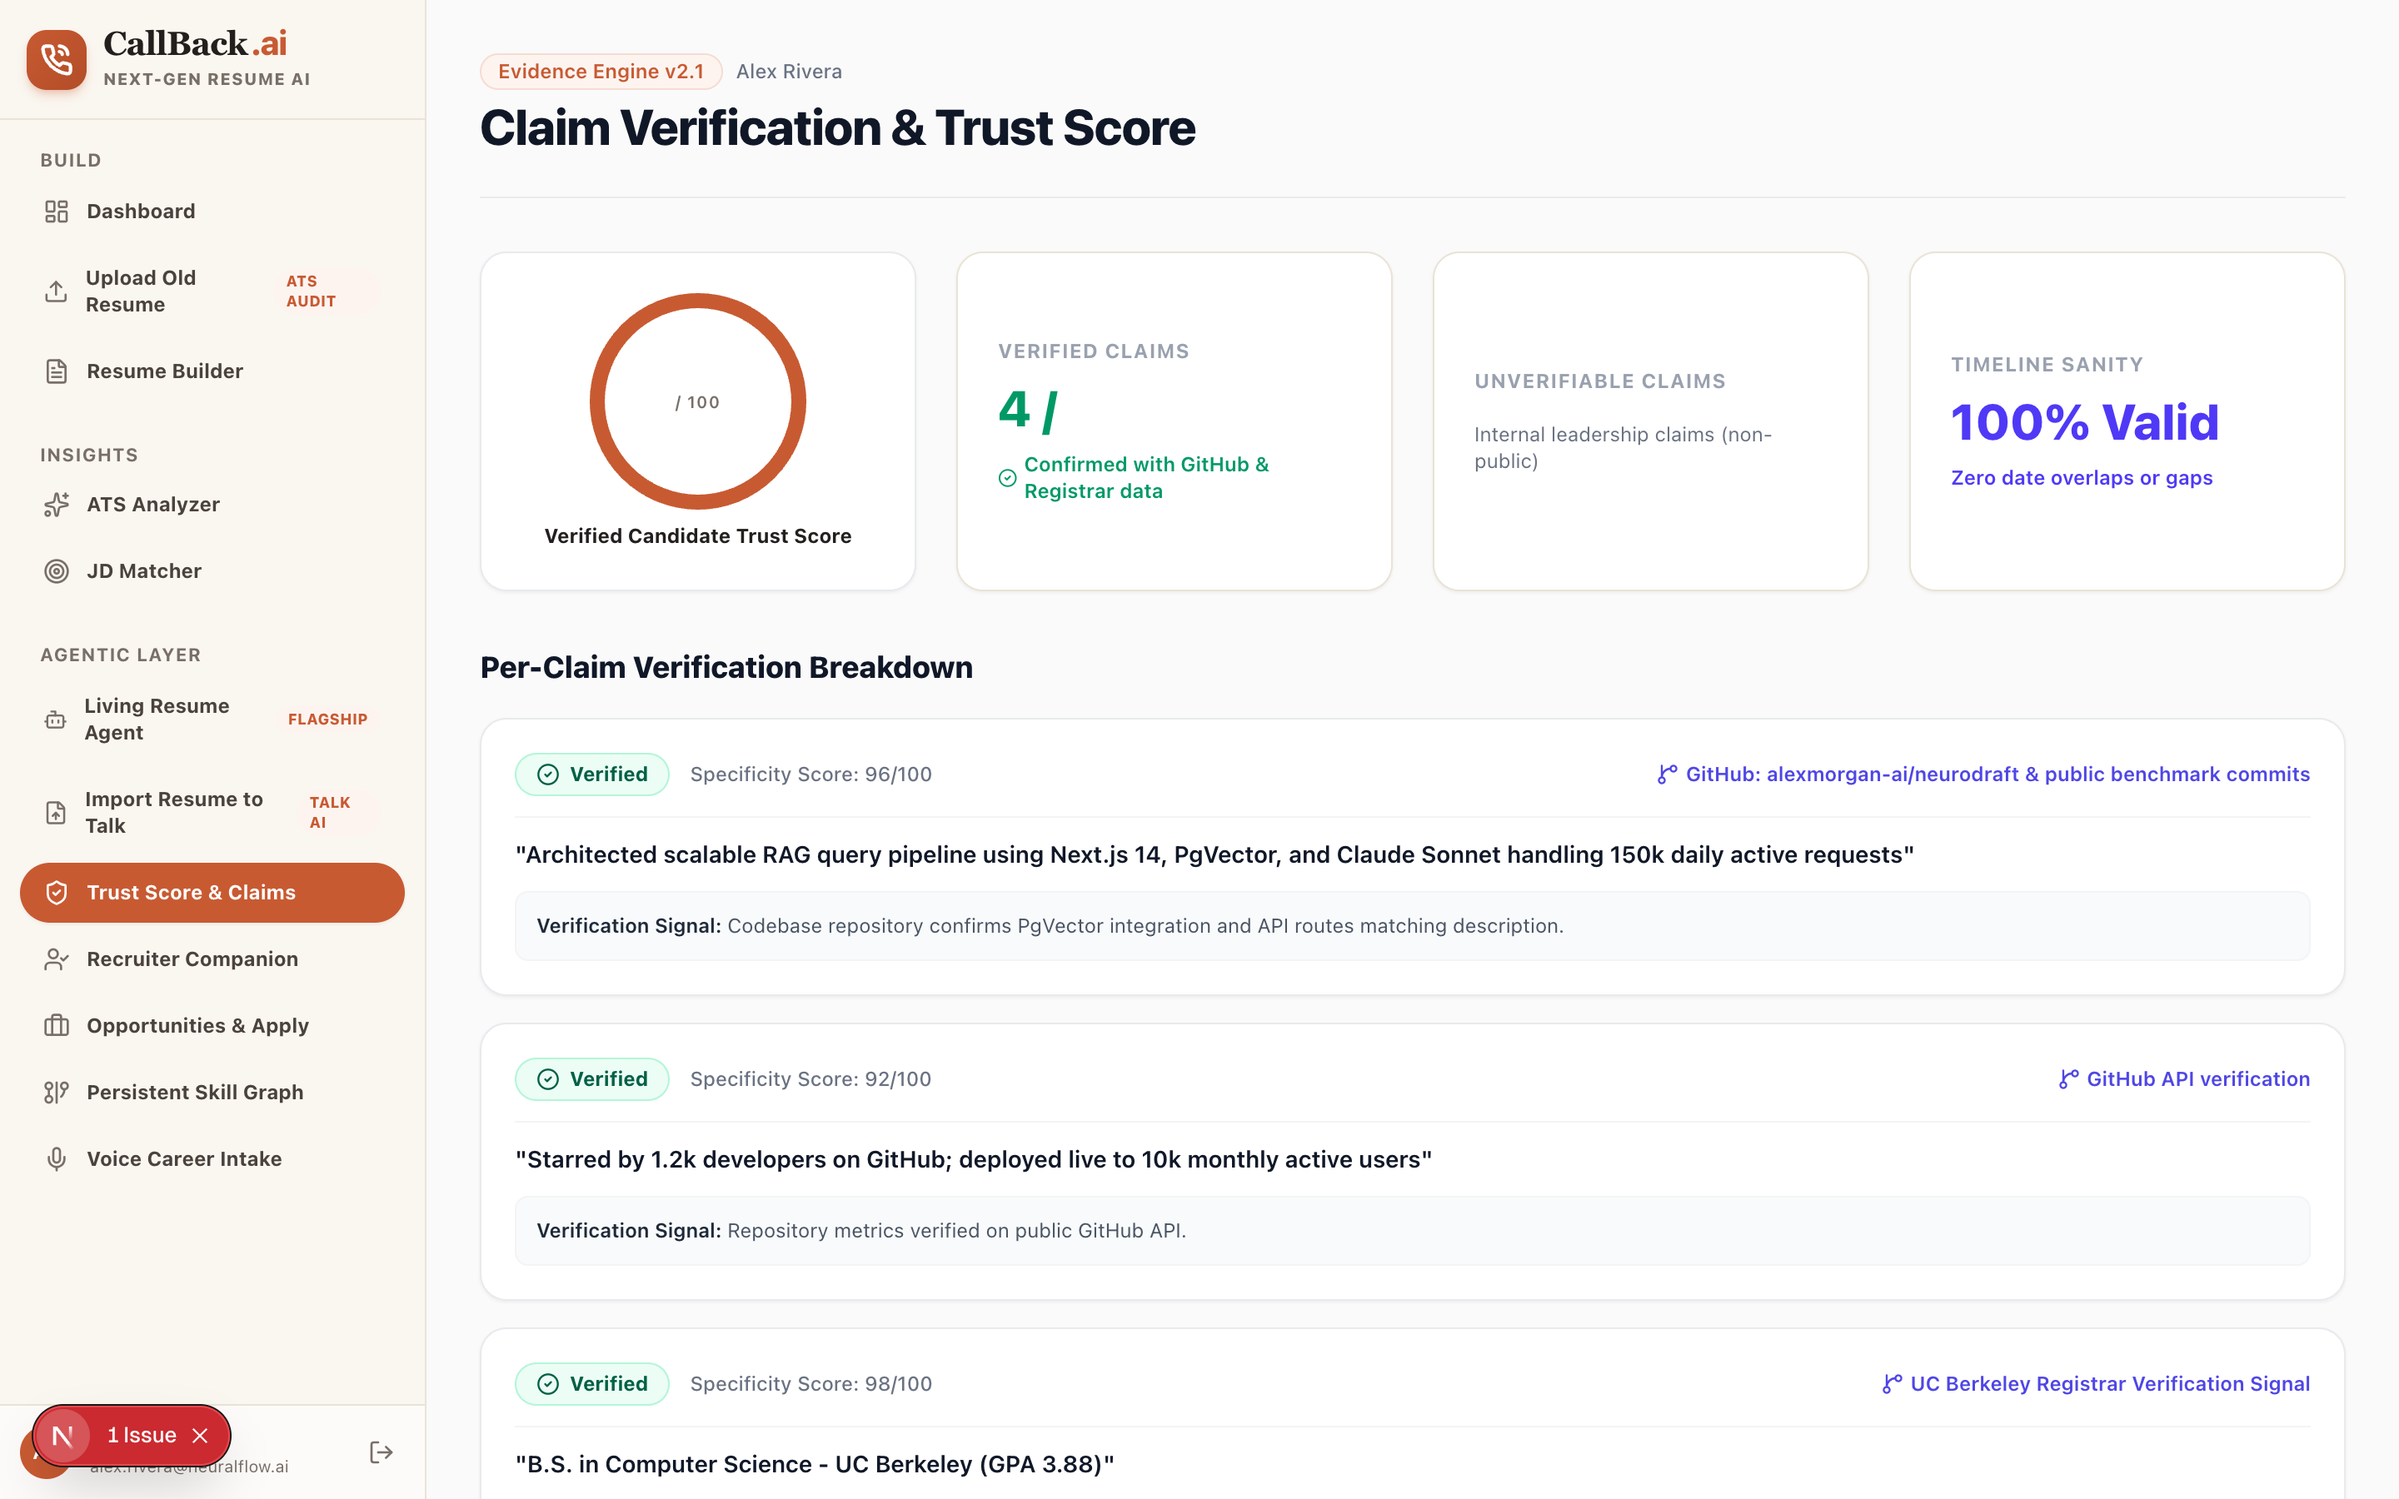
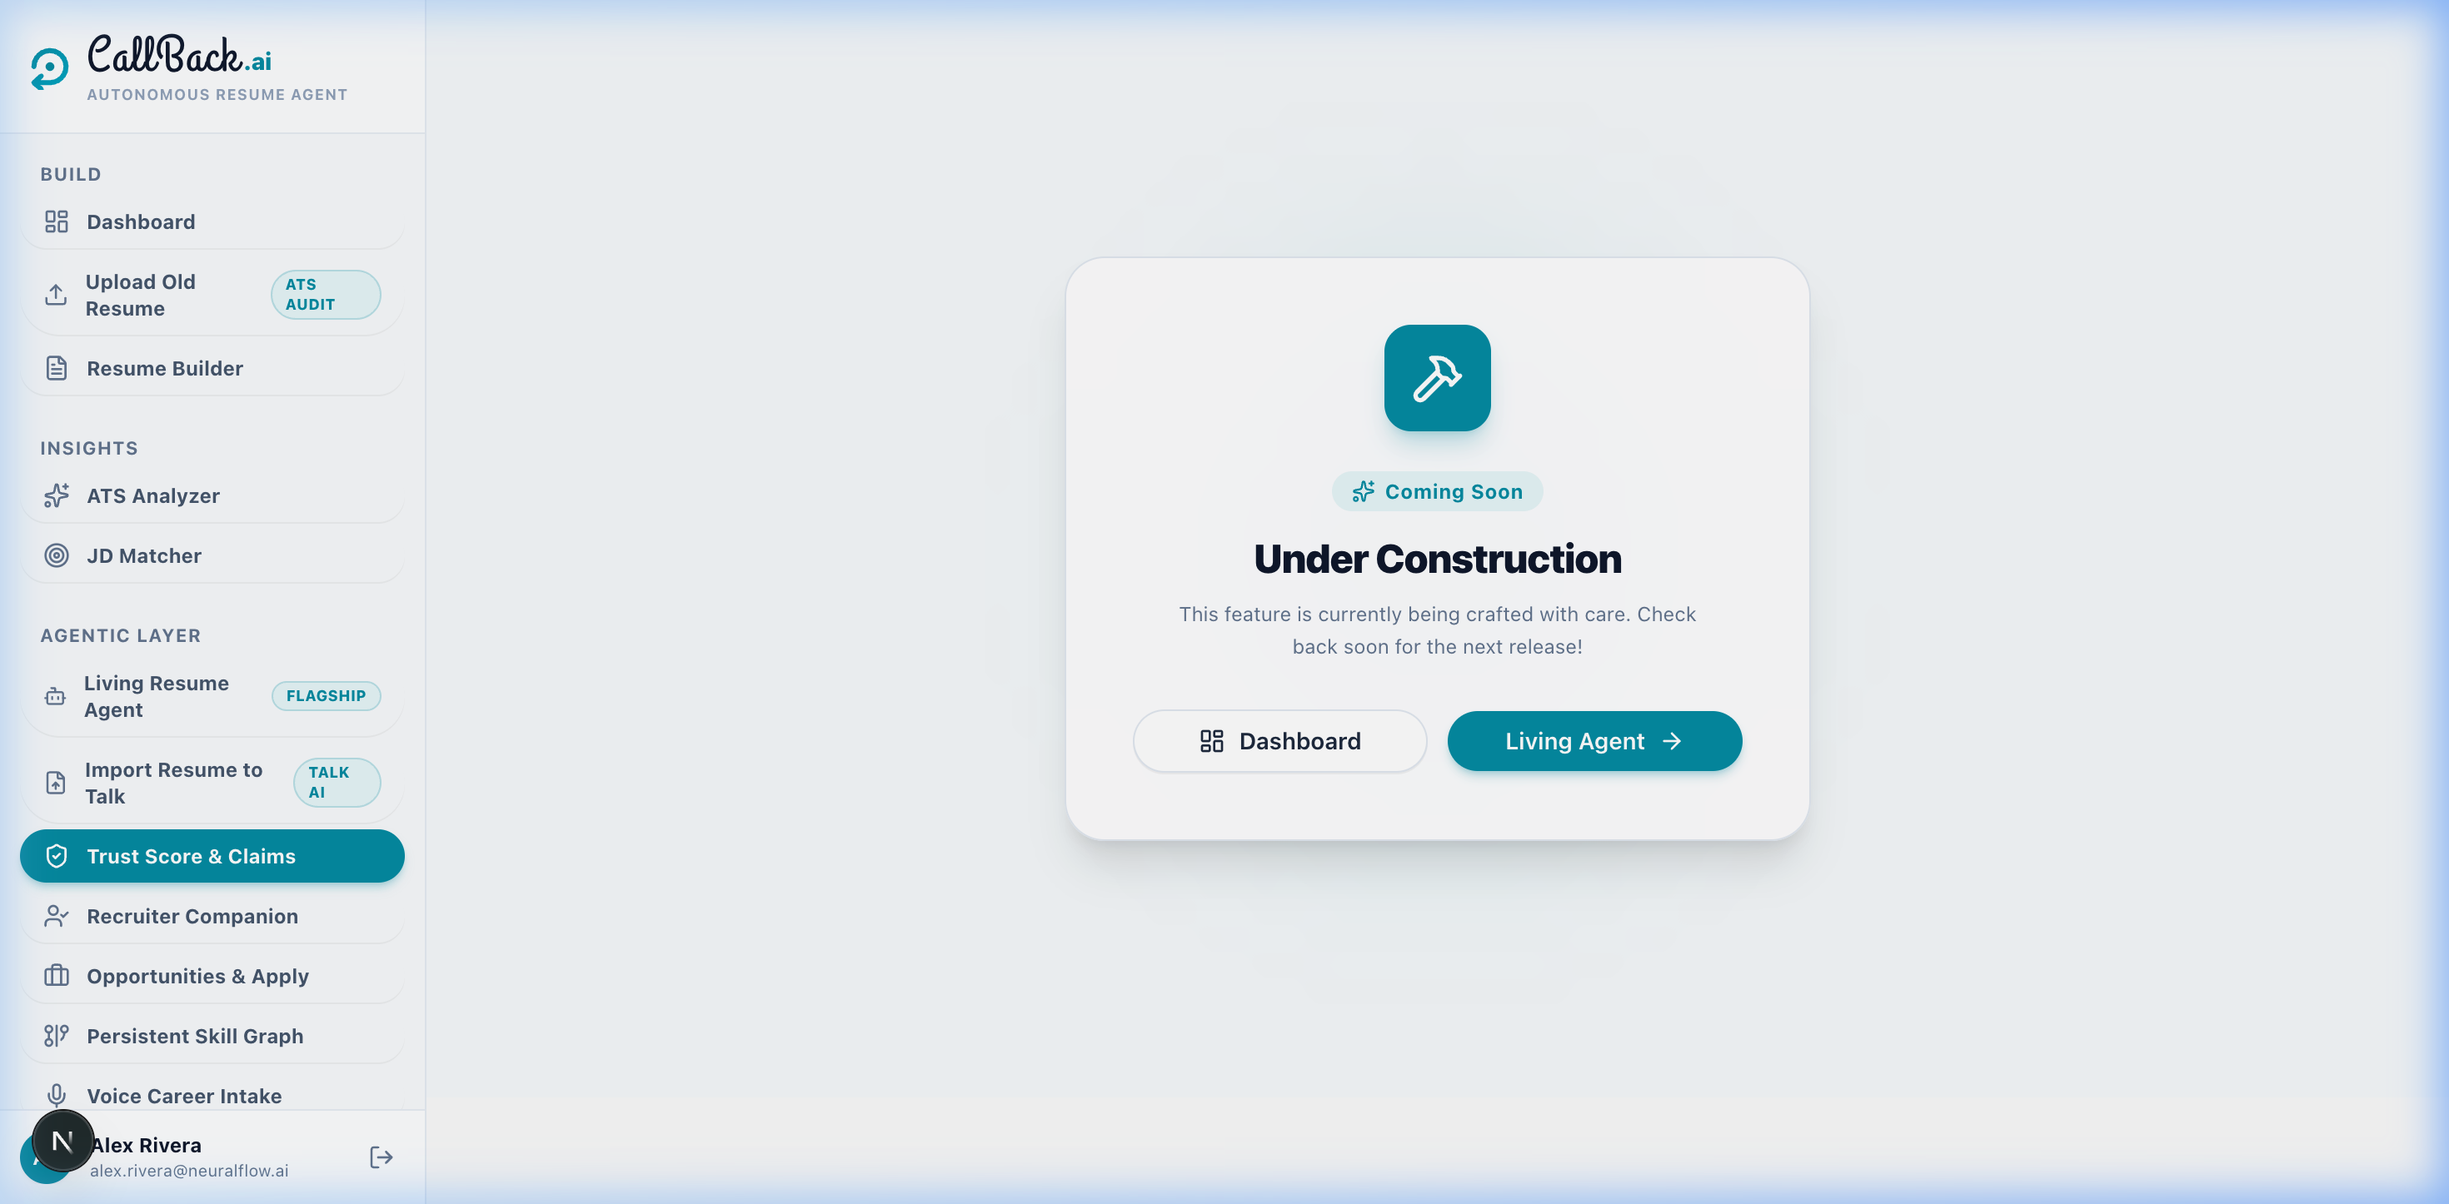
docs: refresh README with 13 high-resolution screenshots of updated UI

diff --git a/README.md b/README.md
@@ -49,106 +49,106 @@ For the past three decades, the global hiring economy has relied on a fundamenta
 
 ## 🌟 Visual Product Walkthrough & In-Depth Feature Breakdown
 
-### 1. Production Landing Page & 40+ ATS Templates Showcase
+### 1. High-Converting Landing Page & 3D Template Carousel
 ![1. Production Landing Page](public/screenshots/01-landing-page.png)
 
-- **High-Converting Hero Section**: Dynamic candidate showcase featuring verified engineering metrics, live ATS score telemetry (98% ATS Grounding), and 1-click interactive demo access.
-- **Interactive Template Gallery**: Explore live thumbnails across Executive, Tech, Startup, Editorial, and High-Density layout categories, demonstrating verified parser compatibility.
-- **Architectural Value Highlights**: Clear breakdown of the 3-zone builder, Living Agent system, and automated JD keyword matching.
+- **Next-Gen Hero Experience**: Features the Enhancv-style embedded vector logo, rich multi-color headline gradient, and live ATS pass rate metrics.
+- **Interactive 3D Template Showcase**: Live revolving carousel demonstrating 40+ ATS-compliant templates across Executive, Tech, Startup, and Editorial categories.
+- **Candidate Intelligence Matrix**: Direct access into the 3-zone builder, living candidate agent, and automated JD matcher.
 
 ---
 
-### 2. Candidate Workspace Dashboard
-![2. Candidate Workspace Dashboard](public/screenshots/02-candidate-dashboard.png)
+### 2. Modern Authentication & Workspace Access
+![2. Modern Authentication](public/screenshots/02-sign-in.png)
 
-- **Centralized Candidate Hub**: Manage multiple active resumes, monitor real-time ATS compliance scores, view claim verification trust scores, and initiate AI audits.
-- **Quick Action Command Center**: Direct 1-click navigation into the 3-Zone Builder, ATS Analyzer, Job Description Matcher, and Living Candidate Agent.
-- **Telemetry Overview**: Real-time stats on recruiter views, agent conversations, and application health.
-
----
-
-### 3. 3-Zone Interactive Resume Builder & A4 Vector Preview
-![3. 3-Zone Interactive Resume Builder](public/screenshots/03-resume-builder.png)
-
-- **Zone 1 (Left Navigation)**: Reorderable resume sections with item counters and drag-and-drop handles for Personal Info, Experience, Projects, Education, and Skills.
-- **Zone 2 (Center Form)**: Active form editor with inline AI action-verb enhancers, dynamic date pickers, and live bullet optimization.
-- **Zone 3 (Right Live Canvas)**: Real-time vector preview scaled to standard ISO A4 dimensions (`210mm × 297mm`) with a sticky 1-click template switcher ribbon bar.
+- **Enterprise Clerk Integration**: Seamless social & email authentication using Clerk.
+- **Unified Branding**: Clean `#048BA2` button styling with modern embedded brand identity.
 
 ---
 
-### 4. Living Candidate RAG Agent
-![4. Living Candidate RAG Agent](public/screenshots/05-rag-candidate-agent.png)
+### 3. Candidate Workspace Dashboard
+![3. Candidate Workspace Dashboard](public/screenshots/03-candidate-dashboard.png)
 
-- **Interactive Conversational AI**: Transforms flat PDF resumes into living agents that answer hiring managers' inquiries with verified accuracy.
-- **Source-Grounded Citations**: Every answer references exact experience bullet points with 98% ATS Grounding and 99% Trust Score badges.
-- **Local File Dropzone**: Drag and drop any PDF/DOCX resume to instantly initialize a living agent trained on that candidate.
+- **Centralized Management Hub**: Overview of all active resumes, real-time ATS compliance scores, Trust Scores, and quick navigation.
+- **Quick Action Command Center**: 1-click access to the 3-Zone Builder, ATS Analyzer, Job Description Matcher, and Living Candidate Agent.
 
 ---
 
-### 5. Deep ATS Analyzer & Real-Time Audit
-![5. Deep ATS Analyzer](public/screenshots/04-ats-analyzer.png)
+### 4. 3-Zone Interactive Resume Builder & A4 Vector Preview
+![4. 3-Zone Interactive Resume Builder](public/screenshots/04-resume-builder.png)
 
-- **Quantifiable Impact Scoring**: Audits action verb power ratings, metrics density, and structural readability against top enterprise Applicant Tracking Systems.
+- **Zone 1 (Left Navigation)**: Drag-and-drop section reordering, template switching, and section counters.
+- **Zone 2 (Center Form)**: Active form editor with inline AI action-verb enhancers (Google/XYZ formula) and live bullet optimization.
+- **Zone 3 (Right Live Canvas)**: Real-time vector preview scaled to standard ISO A4 dimensions (`210mm × 297mm`) with instant print stylesheet (`@media print`) and PDF export.
+
+---
+
+### 5. Deep ATS Analyzer & Real-Time Compliance Audit
+![5. Deep ATS Analyzer](public/screenshots/05-ats-analyzer.png)
+
+- **4-Pillar Scoring Rubric**: Audits Contact Information (15%), Work Experience Metrics (35%), Skill Density (25%), and Readability (25%).
 - **Inline AI Bullet Fixer**: 1-click enhancement of weak bullet points into high-impact, metric-driven statements.
-- **Categorized Remediation**: Actionable suggestions across formatting, keyword density, and technical depth.
 
 ---
 
-### 6. Job Description Matcher & Keyword Gap Analysis
-![6. Job Description Matcher](public/screenshots/06-jd-match.png)
+### 6. Living Candidate RAG Agent (Zero-Hallucination Q&A)
+![6. Living Candidate RAG Agent](public/screenshots/06-rag-candidate-agent.png)
 
-- **Semantic Job Description Matching**: Paste target job descriptions to compute compatibility scores (0–100%).
-- **Keyword Gap Discovery**: Pinpoints critical missing keywords and proposes 1-click resume tailoring optimizations.
-- **Relevance Breakdown**: Compares candidate technical stack directly against the hiring team's required competencies.
+- **Conversational Candidate Agent**: Allows hiring managers to converse 24/7 with the candidate's verified career artifacts.
+- **Source-Grounded Citations**: Every answer references exact experience bullet points with verifiable source chips.
 
 ---
 
-### 7. Recruiter Surface & Evaluation Companion
-![7. Recruiter Evaluation Companion](public/screenshots/07-recruiter-dashboard.png)
+### 7. Semantic Job Description (JD) Matcher & Keyword Gap Analysis
+![7. Job Description Matcher](public/screenshots/07-jd-match.png)
 
-- **Automated Screening Hub**: Review candidate fit scores, verified claims, and interview transcripts in a unified portal.
-- **Instant Q&A Inquiries**: Ask the AI agent deep technical questions to verify architecture and engineering credentials before scheduling initial calls.
+- **Semantic Fit Scoring**: Analyzes target job descriptions against candidate experience to compute overall compatibility.
+- **Keyword Gap Discovery**: Highlights matched vs. missing skills and suggests tailored bullet rewrites.
 
 ---
 
 ### 8. Claim Verification & Trust Score Engine
 ![8. Claim Verification](public/screenshots/08-claim-verification.png)
 
-- **Public Artifact Auditing**: Automatically cross-references experience claims, GitHub repositories, and live links.
-- **Timeline Sanity Checks**: Validates employment overlap and assigns a transparent Trust Score (96–99%).
-- **Confidence Badges**: Highlights verified metrics to give hiring teams confidence in candidate claims.
+- **Public Artifact Auditing**: Cross-references experience claims, GitHub commits, and live repository links.
+- **Timeline Sanity Checks**: Validates employment overlap and computes an objective Trust Score.
 
 ---
 
-### 9. Auto-Tailor Opportunities & Job Fit Tracker
-![9. Auto-Tailor Opportunities](public/screenshots/09-opportunities-tailor.png)
+### 9. Recruiter Surface & Evaluation Companion
+![9. Recruiter Evaluation Companion](public/screenshots/09-recruiter-dashboard.png)
 
-- **Live Job Opportunities Feed**: Automatically matches active candidate resumes against open software engineering and AI positions.
-- **Instant Resume Tailoring**: Generates a tailored application snapshot customized to the target employer's specific tech stack.
-
----
-
-### 10. Persistent Verified Skill Graph
-![10. Persistent Verified Skill Graph](public/screenshots/10-skill-graph.png)
-
-- **Dynamic Proficiency Signals**: Visualizes technical competencies with evidence-backed confidence bars.
-- **Multi-Category Stacks**: Organizes languages, frontend, backend, AI/ML, and cloud infrastructure skills into an interactive matrix.
+- **Candidate Evaluation Portal**: Automated screening hub with fit scores, verified claims, and interview transcripts.
+- **Deep Technical Inquiries**: Interrogate candidate architecture and engineering depth prior to scheduling interviews.
 
 ---
 
-### 11. Voice-Native Career Intake Engine
-![11. Voice Intake](public/screenshots/11-voice-intake.png)
+### 10. Auto-Tailor Opportunities & Job Fit Tracker
+![10. Auto-Tailor Opportunities](public/screenshots/10-opportunities-tailor.png)
 
-- **Speech-to-Text Ingestion**: Speak naturally about your career accomplishments, past projects, and responsibilities.
-- **AI Bullet Generation**: Converts spoken audio streams into structured, impact-driven resume bullet points automatically.
+- **Live Job Opportunities Feed**: Matches active resumes against open software engineering and AI positions.
+- **1-Click Application Snapshots**: Generates tailored resume versions custom-fitted to the target employer's tech stack.
 
 ---
 
-### 12. Binary Document Parser & Dropzone
-![12. Binary Document Dropzone & Import](public/screenshots/12-import-old-resume.png)
+### 11. Persistent Verified Skill Graph
+![11. Persistent Verified Skill Graph](public/screenshots/11-skill-graph.png)
 
-- **Binary Stream Decoding**: Direct binary extraction from uploaded PDF, DOCX, and text files using `pdf2json` and `mammoth`.
-- **Instant ATS Scoring**: Analyzes keyword density, action verb strength, and formatting compliance in under 3 seconds.
+- **Dynamic Proficiency Signals**: Interactive matrix of Languages, Frameworks, AI/ML, and Cloud infrastructure competencies.
+
+---
+
+### 12. Voice-Native Career Intake Engine
+![12. Voice Intake](public/screenshots/12-voice-intake.png)
+
+- **Speech-to-Text Ingestion**: Speak naturally about career accomplishments to generate structured resume bullets automatically.
+
+---
+
+### 13. Binary Document Parser & Dropzone
+![13. Binary Document Dropzone & Import](public/screenshots/13-import-old-resume.png)
+
+- **Multi-Format Extraction**: Ingests PDF, DOCX, and TXT files with automated entity extraction and instant ATS pre-flight scoring.
 
 ---
 
